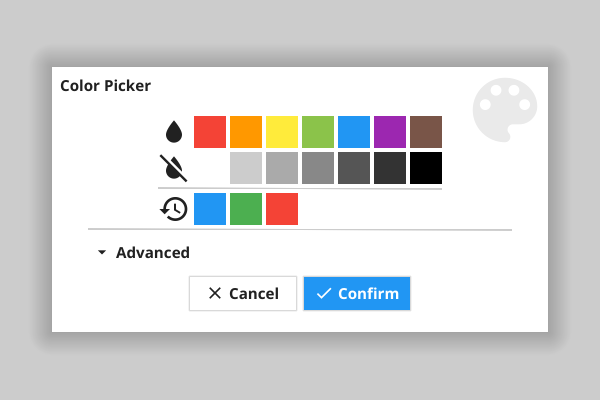
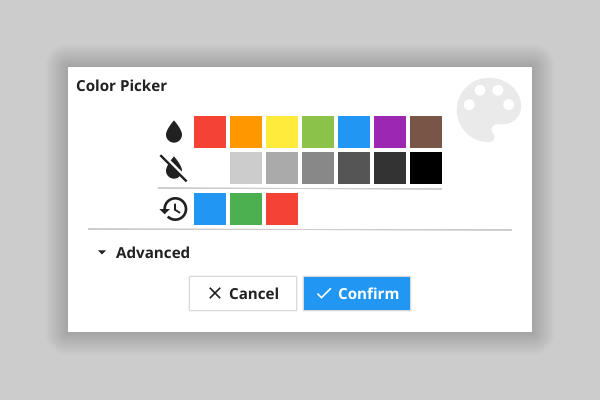
Update color dialog images to work with dialog changes

Changed region(s): [[0.06, 0.15, 0.27, 0.84], [0.87, 0.15, 0.93, 0.84]]

diff --git a/dialog/testdata/main.c b/dialog/testdata/main.c
@@ -1,0 +1,7 @@
+#include <stdlib.h>
+#include <stdio.h>
+
+int main(int argc, char **argv) {
+	printf("Hello World!\n");
+	return 0;
+}
